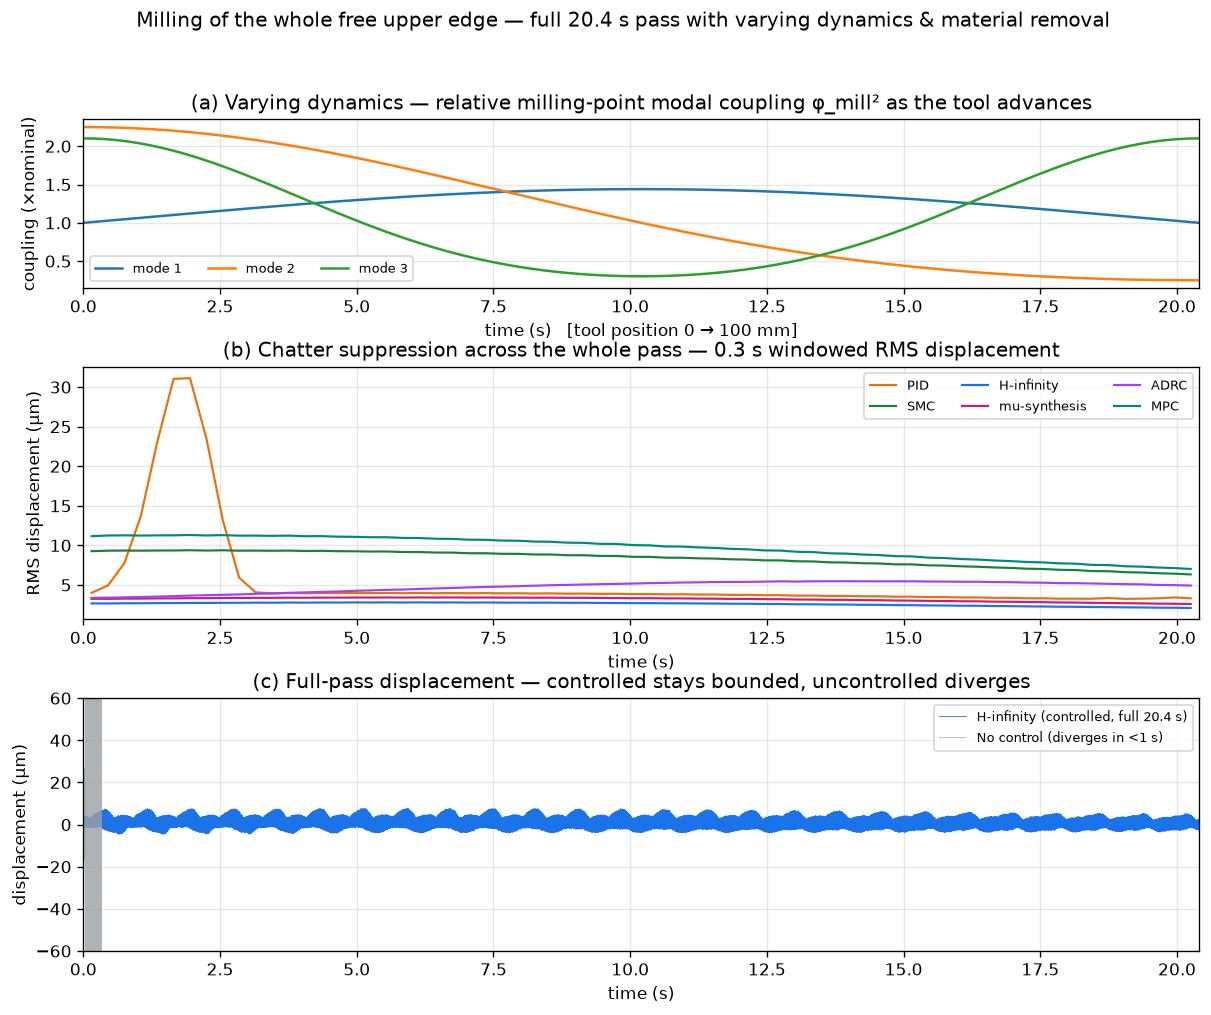
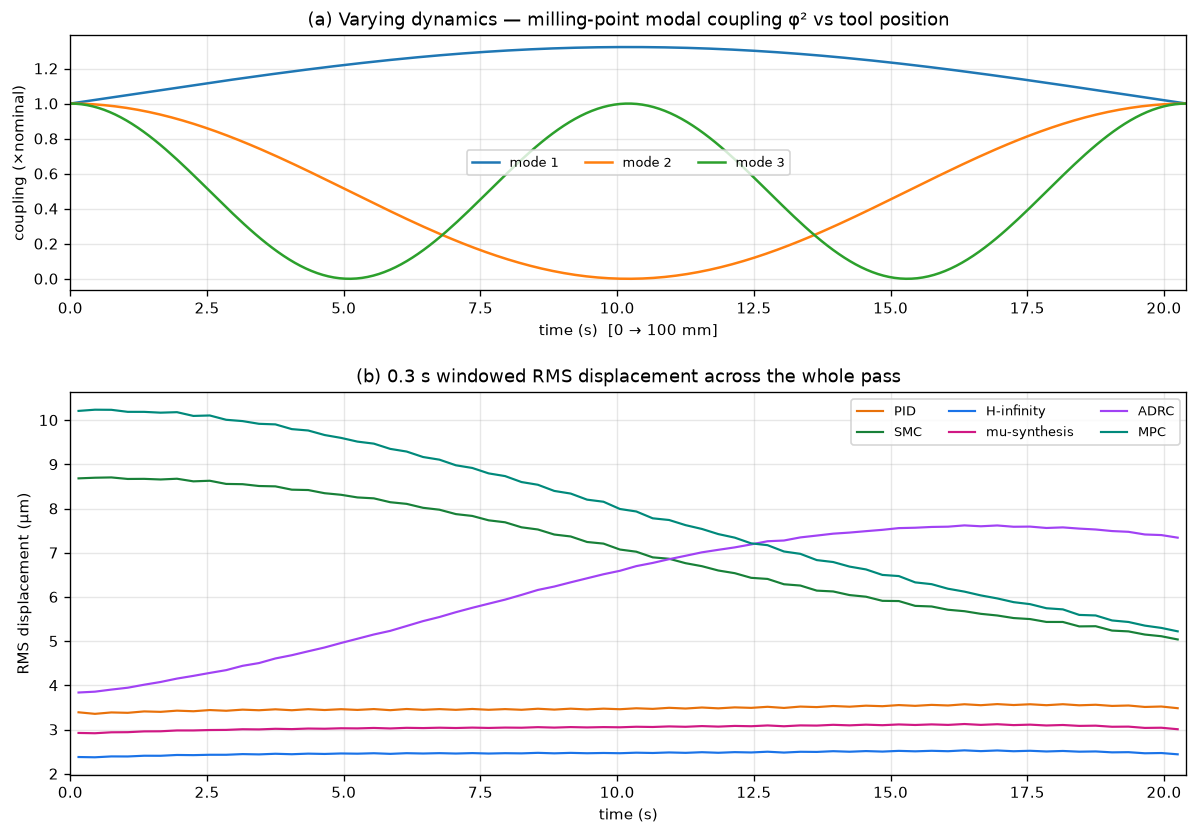
Add paper Fig. 14-style responses (envelope + spectrum) over the full pass
The paper's Fig. 14 plots the milling responses over the whole 20.4 s pass:
displacement vs time (left) and amplitude spectrum (right), with the tool
advancing along the free edge. Reproduce that presentation:

- full_pass.py now also writes fig14_responses.png — one row per method (No
  control + 6 controllers), left = displacement envelope vs time (uncontrolled
  over 0.2 s diverging, controllers over the full 20.4 s with the paper's 5.1/
  10.2/15.3/20.4 s ticks), right = amplitude spectrum showing the tooth-passing
  harmonics f_t/2f_t/3f_t remaining while the f_c2 chatter peak (~1103 Hz) is
  suppressed.
- edge_mode_profile now uses physically motivated free-edge shapes: mode 1
  ~uniform, mode 2 (torsion) with antinodes at both free corners and a node
  mid-span (so its coupling phi^2 is hour-glass shaped, as in the paper's
  Fig. 14 envelope), mode 3 with two internal nodes.

All six controllers stay stable across the 20.4 s pass; the spectra match the
paper's (forced tooth-passing harmonics remain, regenerative chatter removed).

Claude-Session: https://claude.ai/code/session_01ETjKYUC9Dau9sAaQuHJsux

Changed region(s): [[0.0, 0.0, 1.0, 0.9964]]

diff --git a/full_pass.py b/full_pass.py
@@ -1,15 +1,17 @@
 #!/usr/bin/env python3
 """
 Full milling-PASS simulation (~20.4 s): the tool traverses the whole free upper
-edge of the plate.  As it advances, the milling-point mode shape (hence the
-regenerative coupling and the cutting excitation) varies with position, and the
-modal frequencies drift upward from material removal -- the paper's "varying
-dynamic characteristics".  The displacement sensor and the piezo actuator stay
-fixed.  This shows each controller (designed once, at nominal) holding chatter
-down across the entire pass.
+edge (peripheral milling).  As it advances the milling-point mode shape (hence
+the regenerative coupling and the cutting excitation) varies with position, and
+the modal frequencies drift upward from material removal -- the paper's varying
+dynamic characteristics.  The displacement sensor and piezo actuator stay fixed.
 
-Run:  python full_pass.py         (takes a few minutes; 6 controllers x 20.4 s)
-Output: results/fig_full_pass.png
+Produces two figures in results/:
+  * fig14_responses.png  -- paper Fig. 14 style: displacement-vs-time (envelope)
+                            and amplitude spectrum for every method.
+  * fig_full_pass.png    -- summary: varying coupling, windowed RMS, sample trace.
+
+Run:  python full_pass.py     (a few minutes; 6 controllers x 20.4 s at 25.6 kHz)
 """
 from __future__ import annotations
 import os, warnings, time
@@ -21,6 +23,7 @@ import matplotlib.pyplot as plt
 
 from src import config as C
 from src import plant as P
+from src import metrics as M
 from src.simulate import simulate
 from src.controllers.base import ZeroController
 from src.controllers.pid import PID
@@ -35,97 +38,126 @@ CONTROLLERS = [("PID", PID), ("SMC", SMC), ("H-infinity", Hinf),
                ("mu-synthesis", MuSynthesis), ("ADRC", ADRC), ("MPC", MPC)]
 _COLOR = {"PID": "#e8710a", "SMC": "#188038", "H-infinity": "#1a73e8",
           "mu-synthesis": "#d01884", "ADRC": "#a142f4", "MPC": "#00897b",
-          "No control": "#9aa0a6"}
+          "No control": "#c9922b"}
+
+
+def envelope(t, y_um, win=0.008):
+    """Rolling (min,max) envelope over `win`-second windows."""
+    n = max(2, int(win / (t[1] - t[0])))
+    tc, ylo, yhi = [], [], []
+    for i in range(0, len(t) - n, n):
+        seg = y_um[i:i + n]
+        tc.append(t[i] + win / 2); ylo.append(seg.min()); yhi.append(seg.max())
+    return np.array(tc), np.array(ylo), np.array(yhi)
 
 
 def windowed_rms(t, y_um, win=0.3):
-    """Sliding-window RMS (non-overlapping) → (centres, rms)."""
-    centres, vals = [], []
     n = int(win / (t[1] - t[0]))
+    cen, val = [], []
     for i in range(0, len(t) - n, n):
-        seg = y_um[i:i + n]
-        centres.append(t[i] + win / 2)
-        vals.append(float(np.sqrt(np.mean(seg ** 2))))
-    return np.array(centres), np.array(vals)
+        cen.append(t[i] + win / 2)
+        val.append(float(np.sqrt(np.mean(y_um[i:i + n] ** 2))))
+    return np.array(cen), np.array(val)
 
 
 def main():
-    plt.rcParams.update({"figure.dpi": 120, "font.size": 10, "axes.grid": True,
+    plt.rcParams.update({"figure.dpi": 120, "font.size": 9, "axes.grid": True,
                          "grid.alpha": 0.3, "axes.axisbelow": True})
-    vfeed = C.FEED_VELOCITY * 1e3          # mm/s
-    print(f"Full pass: v_feed={vfeed:.2f} mm/s, length={C.PLATE['lp']*1e3:.0f} mm, "
-          f"T_pass={C.T_PASS:.1f} s, dt=1/{C.FS:.0f}s ({int(C.T_PASS*C.FS)} steps/run)")
+    print(f"Full pass: v_feed={C.FEED_VELOCITY*1e3:.2f} mm/s, T_pass={C.T_PASS:.1f} s, "
+          f"{int(C.T_PASS*C.FS)} steps/run")
 
-    results = {}
+    data = {}
     for name, ctor in CONTROLLERS:
         t0 = time.time()
         r = simulate(P.MillingPlant(moving=True, freq_drift=True), ctor(),
                      t_sim=C.T_PASS, meas_noise=True)
-        cen, wr = windowed_rms(r["t"], r["y"] * 1e6)
-        # decimate the raw trace for plotting
+        y_um = r["y"] * 1e6
+        te, ylo, yhi = envelope(r["t"], y_um)
+        # spectrum over the steady portion (after the 0.5 s start transient)
+        i0 = int(0.5 * C.FS)
+        f, a = M.spectrum(r["t"][i0:], r["y"][i0:])
+        cen, wr = windowed_rms(r["t"], y_um)
         dec = max(1, len(r["t"]) // 6000)
-        results[name] = dict(t=r["t"][::dec], y=r["y"][::dec] * 1e6,
-                             cen=cen, wr=wr, diverged=r["diverged"])
-        print(f"  {name:13s} done in {time.time()-t0:4.0f}s  "
-              f"mean RMS {np.mean(wr):5.2f} µm  max {np.max(np.abs(r['y']))*1e6:6.1f} µm"
-              f"  diverged={r['diverged']}")
+        data[name] = dict(te=te, ylo=ylo, yhi=yhi, f=f, a=a * 1e6, cen=cen, wr=wr,
+                          tdec=r["t"][::dec], ydec=y_um[::dec],
+                          peak=float(np.max(np.abs(y_um))), diverged=r["diverged"])
+        print(f"  {name:13s} {time.time()-t0:4.0f}s  meanRMS {np.mean(wr):5.2f} µm  "
+              f"peak {data[name]['peak']:6.1f} µm  div={r['diverged']}")
 
-    # uncontrolled (diverges quickly; simulate a short window to show it)
+    # uncontrolled: diverges fast -> short 0.2 s window (paper Fig 14a)
     ru = simulate(P.MillingPlant(moving=True, freq_drift=True), ZeroController(),
-                  t_sim=1.0, meas_noise=True)
+                  t_sim=0.2, meas_noise=True)
+    yu = ru["y"] * 1e6
+    fu, au = M.spectrum(ru["t"], ru["y"])
+    data["No control"] = dict(t=ru["t"], y=yu, f=fu, a=au * 1e6,
+                              peak=float(np.max(np.abs(yu))))
 
-    # ---------------- figure ----------------
-    fig = plt.figure(figsize=(12, 9))
-    gs = fig.add_gridspec(3, 1, height_ratios=[0.8, 1.2, 1.2], hspace=0.35)
+    ft = C.FT_S      # tooth-passing frequency 245 Hz
 
-    # (a) varying dynamics: milling-point coupling phi_mill^2 vs tool position
-    ax0 = fig.add_subplot(gs[0])
-    xi = np.linspace(0, 1, 200)
-    prof = np.array([P.edge_mode_profile(x) for x in xi])       # (200, n)
-    pos_mm = xi * C.PLATE["lp"] * 1e3
-    for i in range(prof.shape[1]):
-        ax0.plot(xi * C.T_PASS, prof[:, i] ** 2, lw=1.5,
-                 label=f"mode {i+1}")
-    ax0.set_title("(a) Varying dynamics — relative milling-point modal coupling "
-                  "φ_mill² as the tool advances")
-    ax0.set_ylabel("coupling (×nominal)")
-    ax0.set_xlabel("time (s)   [tool position 0 → 100 mm]")
-    ax0.legend(fontsize=8, ncol=3)
-    ax0.set_xlim(0, C.T_PASS)
+    # ================= FIGURE 1 : paper Fig. 14 style ==================
+    order = ["No control"] + [k for k, _ in CONTROLLERS]
+    nrow = len(order)
+    fig, ax = plt.subplots(nrow, 2, figsize=(12, 2.0 * nrow))
+    for i, name in enumerate(order):
+        d = data[name]
+        col = _COLOR[name]
+        axt, axf = ax[i, 0], ax[i, 1]
+        if name == "No control":
+            axt.plot(d["t"], d["y"], color=col, lw=0.5)
+            axt.set_xlim(0, 0.2)
+            axt.set_title(f"{name} — diverges (chatter)", fontsize=9)
+        else:
+            axt.fill_between(d["te"], d["ylo"], d["yhi"], color=col, alpha=0.85, lw=0)
+            axt.set_xlim(0, C.T_PASS)
+            axt.set_xticks([0, 5.1, 10.2, 15.3, 20.4])
+            lim = 1.15 * max(np.max(np.abs(d["yhi"])), np.max(np.abs(d["ylo"])))
+            axt.set_ylim(-lim, lim)
+            axt.set_title(f"{name} — full pass (RMS {np.mean(d['wr']):.2f} µm)", fontsize=9)
+        axt.set_ylabel("displ. (µm)", fontsize=8)
 
-    # (b) windowed RMS along the pass, per controller
-    ax1 = fig.add_subplot(gs[1])
-    for name, _ in CONTROLLERS:
-        d = results[name]
-        ax1.plot(d["cen"], d["wr"], lw=1.3, color=_COLOR[name], label=name)
-    ax1.set_title("(b) Chatter suppression across the whole pass — "
-                  "0.3 s windowed RMS displacement")
-    ax1.set_ylabel("RMS displacement (µm)")
-    ax1.set_xlabel("time (s)")
-    ax1.legend(ncol=3, fontsize=8)
-    ax1.set_xlim(0, C.T_PASS)
-
-    # (c) representative full traces: best (H-infinity) vs uncontrolled start
-    ax2 = fig.add_subplot(gs[2])
-    d = results["H-infinity"]
-    ax2.plot(d["t"], d["y"], lw=0.5, color=_COLOR["H-infinity"],
-             label="H-infinity (controlled, full 20.4 s)")
-    ax2.plot(ru["t"], ru["y"] * 1e6, lw=0.5, color=_COLOR["No control"],
-             label="No control (diverges in <1 s)", alpha=0.8)
-    ax2.set_title("(c) Full-pass displacement — controlled stays bounded, "
-                  "uncontrolled diverges")
-    ax2.set_ylabel("displacement (µm)")
-    ax2.set_xlabel("time (s)")
-    ax2.set_ylim(-60, 60)
-    ax2.legend(fontsize=8)
-    ax2.set_xlim(0, C.T_PASS)
-
-    fig.suptitle(f"Milling of the whole free upper edge — full {C.T_PASS:.1f} s pass "
-                 f"with varying dynamics & material removal", fontsize=12)
-    out = os.path.join(RESULTS, "fig_full_pass.png")
-    fig.savefig(out, bbox_inches="tight")
+        # spectrum
+        axf.plot(d["f"], d["a"], color=col, lw=0.8)
+        axf.set_xlim(0, 1600)
+        top = np.max(d["a"][(d["f"] > 100) & (d["f"] < 1600)]) * 1.25 + 1e-9
+        axf.set_ylim(0, top)
+        for k, lbl in [(1, "$f_t$"), (2, "$2f_t$"), (3, "$3f_t$")]:
+            axf.axvline(k * ft, color="gray", ls=":", lw=0.6)
+        if name == "No control":
+            axf.axvline(C.MODE_FREQ_HZ[1], color="red", ls="--", lw=0.7)
+            axf.annotate("$f_{c2}$ chatter", xy=(C.MODE_FREQ_HZ[1], top * 0.8),
+                         fontsize=8, color="red", ha="center")
+        axf.annotate("$f_t$", xy=(ft, top * 0.85), fontsize=8, ha="center", color="gray")
+        axf.set_ylabel("amp. (µm)", fontsize=8)
+    ax[-1, 0].set_xlabel("time (s)")
+    ax[-1, 1].set_xlabel("frequency (Hz)")
+    fig.suptitle("Milling responses over the full 20.4 s pass (paper Fig. 14 style) — "
+                 "displacement envelope (left) and spectrum (right)", fontsize=11)
+    fig.tight_layout(rect=[0, 0, 1, 0.99])
+    fig.savefig(os.path.join(RESULTS, "fig14_responses.png"))
     plt.close(fig)
-    print(f"\nWrote {out}")
+    print("wrote results/fig14_responses.png")
+
+    # ================= FIGURE 2 : summary ==================
+    fig2 = plt.figure(figsize=(12, 8))
+    gs = fig2.add_gridspec(2, 1, height_ratios=[0.8, 1.2], hspace=0.32)
+    ax0 = fig2.add_subplot(gs[0])
+    xi = np.linspace(0, 1, 200)
+    prof = np.array([P.edge_mode_profile(x) for x in xi])
+    for i in range(prof.shape[1]):
+        ax0.plot(xi * C.T_PASS, prof[:, i] ** 2, lw=1.5, label=f"mode {i+1}")
+    ax0.set_title("(a) Varying dynamics — milling-point modal coupling φ² vs tool position")
+    ax0.set_ylabel("coupling (×nominal)"); ax0.set_xlabel("time (s)  [0 → 100 mm]")
+    ax0.set_xlim(0, C.T_PASS); ax0.legend(ncol=3, fontsize=8)
+    ax1 = fig2.add_subplot(gs[1])
+    for name, _ in CONTROLLERS:
+        d = data[name]
+        ax1.plot(d["cen"], d["wr"], lw=1.3, color=_COLOR[name], label=name)
+    ax1.set_title("(b) 0.3 s windowed RMS displacement across the whole pass")
+    ax1.set_ylabel("RMS displacement (µm)"); ax1.set_xlabel("time (s)")
+    ax1.set_xlim(0, C.T_PASS); ax1.legend(ncol=3, fontsize=8)
+    fig2.savefig(os.path.join(RESULTS, "fig_full_pass.png"), bbox_inches="tight")
+    plt.close(fig2)
+    print("wrote results/fig_full_pass.png")
 
 
 if __name__ == "__main__":

diff --git a/src/plant.py b/src/plant.py
@@ -127,20 +127,25 @@ def engagement(t, tau, duty=None, smooth=True):
 # --------------------------------------------------------------------------- #
 def edge_mode_profile(xi):
     """
-    Multipliers (one per mode) applied to the reference mode shape as the tool
+    Mode-shape multipliers (one per mode) at the milling point as the tool
     advances along the free upper edge, xi in [0,1] (0 = pass start, 1 = end).
 
     These reproduce the paper's "varying dynamic characteristics" (its Fig. 7,
-    D_Pr^T D_Pr varying with milling position): the first mode is almost constant
-    along the edge, while the higher modes vary strongly (their spatial profiles
-    have nodes/antinodes along the edge).  Kept strictly positive so the modal
-    coupling never changes sign spuriously.
+    D_Pr^T D_Pr varying with milling position) with physically motivated spatial
+    profiles along the free edge of a cantilever plate:
+      * mode 1 (first bending): nearly uniform along the free top edge;
+      * mode 2 (first torsion): antinodes at the two free corners, a node in the
+        middle -> its coupling phi^2 is large at BOTH ends and vanishes mid-span,
+        giving the hour-glass response envelope seen in the paper's Fig. 14(c,e);
+      * mode 3: two internal nodes.
+    Sign changes are physical (they flip the phase of the modal forcing / the
+    cross-coupling); the self-coupling enters as phi^2 and is sign-independent.
     """
     xi = np.clip(xi, 0.0, 1.0)
-    s1 = 1.0 + 0.20 * np.sin(np.pi * xi)           # mode 1: nearly constant
-    s2 = 1.0 + 0.50 * np.cos(np.pi * xi)           # mode 2: strong variation (1.5 -> 0.5)
-    s3 = 1.0 + 0.45 * np.cos(2.0 * np.pi * xi)     # mode 3: two antinodes
-    return np.array([s1, s2, s3])[:C.N_MODES]
+    p1 = 1.0 + 0.15 * np.sin(np.pi * xi)           # mode 1: ~uniform
+    p2 = np.cos(np.pi * xi)                         # mode 2: antinodes at ends, node mid
+    p3 = np.cos(2.0 * np.pi * xi)                   # mode 3: two internal nodes
+    return np.array([p1, p2, p3])[:C.N_MODES]
 
 
 # --------------------------------------------------------------------------- #

diff --git a/README.md b/README.md
@@ -139,7 +139,8 @@ y(t) = Φᵀ q(t)
 | `fig_metrics_bars.png` | مقارنة RMS / الجهد / الطاقة / المتانة |
 | `fig_robustness.png` | اجتياح المتانة: (أ) مقابل معامل قوة القطع α₄، (ب) مقابل انزياح الترددات |
 | `fig_activation.png` | تفعيل التحكّم بعد بدء الثرثرة: كل متحكم يُخمِدها |
-| `fig_full_pass.png` | **المرور الكامل (20.4 ث):** الديناميكا المتغيّرة + قمع الثرثرة عبر كامل المسار (من `full_pass.py`) |
+| `fig14_responses.png` | **بنمط الشكل 14 بالمقال:** مغلّف الإزاحة مقابل الزمن + طيف السعة لكل طريقة عبر المرور الكامل (من `full_pass.py`) |
+| `fig_full_pass.png` | **المرور الكامل (20.4 ث):** الديناميكا المتغيّرة + RMS نافذي عبر كامل المسار (من `full_pass.py`) |
 
 ![الاستجابة الزمنية](results/fig_time_response.png)
 ![الطيف](results/fig_spectrum.png)
